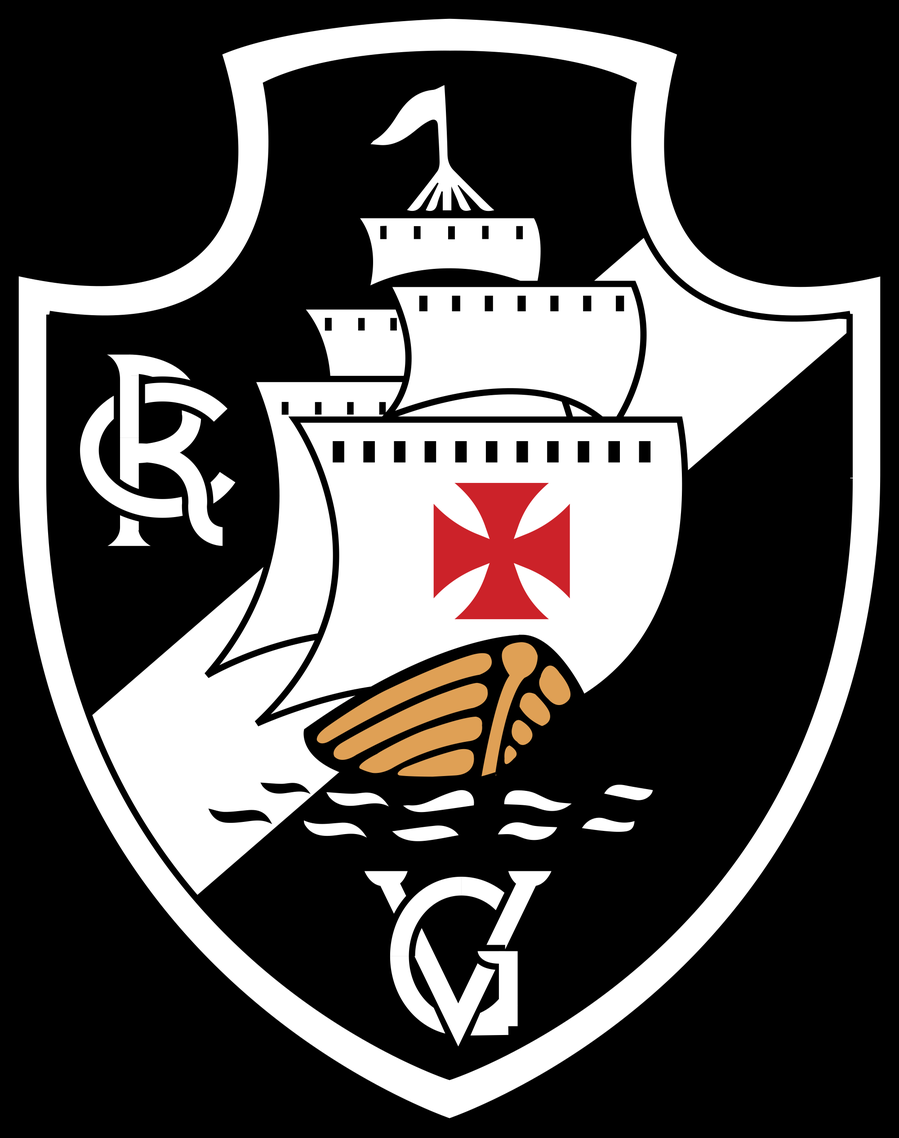
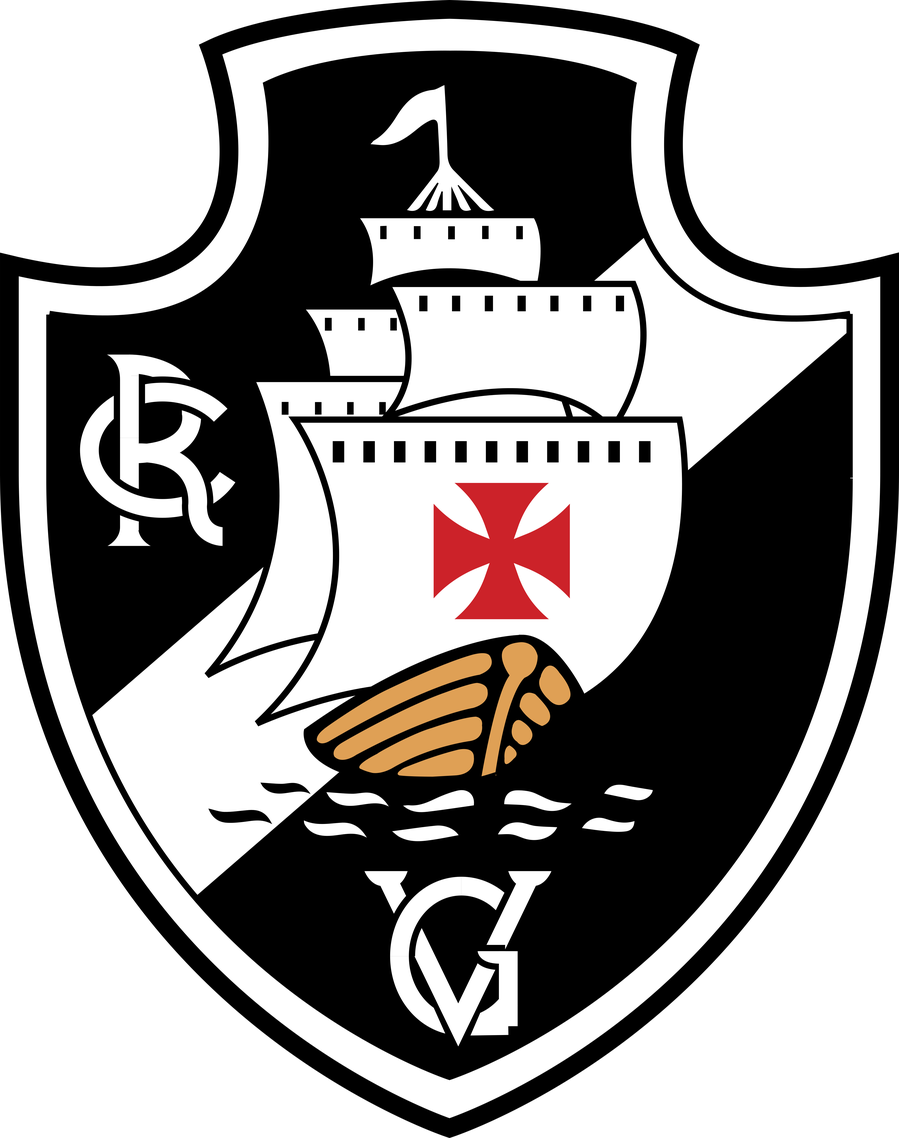
Corrige 3 problemas na animação de entrada:
1) Fundo do escudo: achei a causa — ao comprimir a imagem antes, converti pra RGB sem preservar a transparência, e o PNG flattou o fundo transparente pra PRETO em vez de branco. Refiz preservando o canal alfa (RGBA de verdade), agora o fundo transparente mostra o branco da tela por trás sem nenhuma diferença de cor

2) Escudo agora preenche quase a tela toda (altura de até 80vh), deixando espaço só pro VASBOBO no topo — antes estava com só 80% da LARGURA, ainda sobrava muito fundo vazio embaixo/nas laterais

3) Cruz 3D: o processo de remover fundo branco tinha 'vazado' pelos brilhos internos da cruz e comido pedaços do vermelho, criando falhas de preenchimento. Refiz a remoção de fundo com um critério mais rigoroso (baseado na diferença real entre o canal vermelho e os outros, não só claridade) e uma segunda passada de limpeza pra tirar os resíduos que sobraram

4) Reduz de 3 pra 2 batimentos de coração (mantendo as duas pulsações por batida)

Changed region(s): [[0.0, 0.4306, 1.0, 1.0], [0.5606, 0.0, 1.0, 0.246], [0.0, 0.0, 0.436, 0.246]]

diff --git a/index.html b/index.html
@@ -849,8 +849,8 @@ console.log('Firebase conectado ao Vasbobo ✓');
     </div>
   </header>
   <div id="cruzEntradaOverlay" style="position:fixed;inset:0;z-index:2000;display:none;align-items:center;justify-content:center;background:#FFFFFF;pointer-events:none;overflow:hidden">
-    <img id="cruzEntradaEscudo" src="img/embed/escudo-vasco-fundo.png" alt="" style="position:absolute;left:50%;top:58%;transform:translate(-50%,-50%);width:min(80vw,460px);height:auto;opacity:0;transition:opacity .5s ease">
-    <div id="cruzEntradaTitulo" style="position:absolute;top:3%;left:0;right:0;text-align:center;opacity:0;transition:opacity .5s ease">
+    <img id="cruzEntradaEscudo" src="img/embed/escudo-vasco-fundo.png" alt="" style="position:absolute;left:50%;top:60%;transform:translate(-50%,-50%);height:min(80vh,820px);width:auto;max-width:98vw;opacity:0;transition:opacity .5s ease">
+    <div id="cruzEntradaTitulo" style="position:absolute;top:2%;left:0;right:0;text-align:center;opacity:0;transition:opacity .5s ease">
       <span class="titulo-vasbobo-3d">VASBOBO</span>
     </div>
     <img id="cruzEntradaClara" src="img/menu/cruz-entrada-3d.png" alt="" style="position:absolute;width:170px;height:auto;opacity:0">
@@ -3564,14 +3564,13 @@ function animarEntradaCruz(){
     clara.style.width=tamanhoGigante+'px';
     clara.style.filter='drop-shadow(0 18px 34px rgba(0,0,0,.35))';
   },600);
-  // batimento de coração de verdade (duas pulsações por batida, 3 batidas), só depois que a
+  // batimento de coração de verdade (duas pulsações por batida, 2 batidas), só depois que a
   // cruz já terminou de crescer e chegou no tamanho máximo
   const inicioBatimentos=600+1700+150;
   setTimeout(()=>{clara.classList.add('cruz-batendo');},inicioBatimentos);
   setTimeout(()=>{clara.classList.remove('cruz-batendo');void clara.offsetWidth;clara.classList.add('cruz-batendo');},inicioBatimentos+900);
-  setTimeout(()=>{clara.classList.remove('cruz-batendo');void clara.offsetWidth;clara.classList.add('cruz-batendo');},inicioBatimentos+1800);
   // diminui + sobe até a altura/posição real do botão do menu, se transformando nele
-  const inicioTransicao=inicioBatimentos+2750;
+  const inicioTransicao=inicioBatimentos+1850;
   setTimeout(()=>{
     if(titulo)titulo.style.opacity='0';
     escudo.style.opacity='0';
